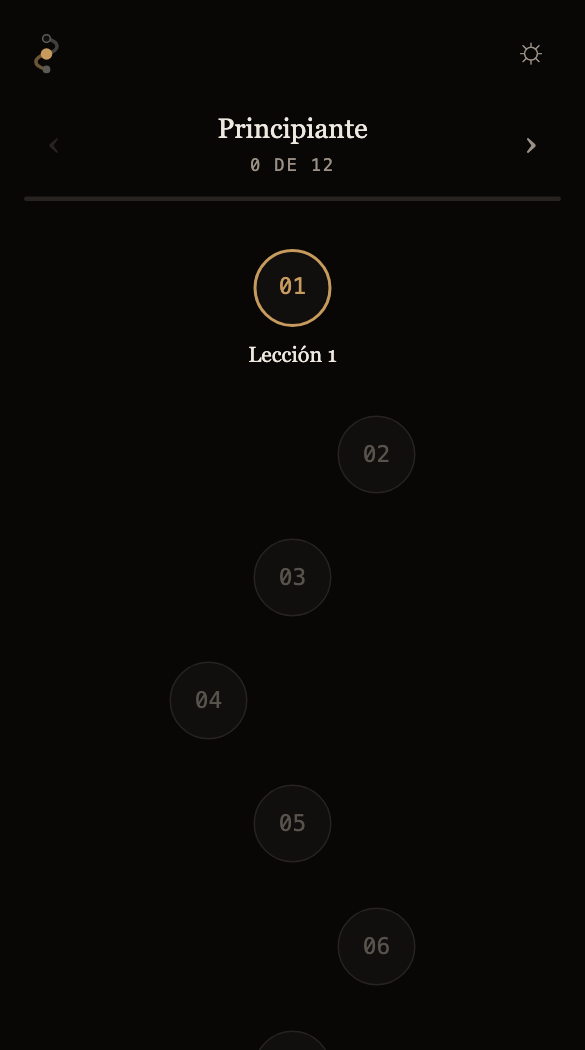
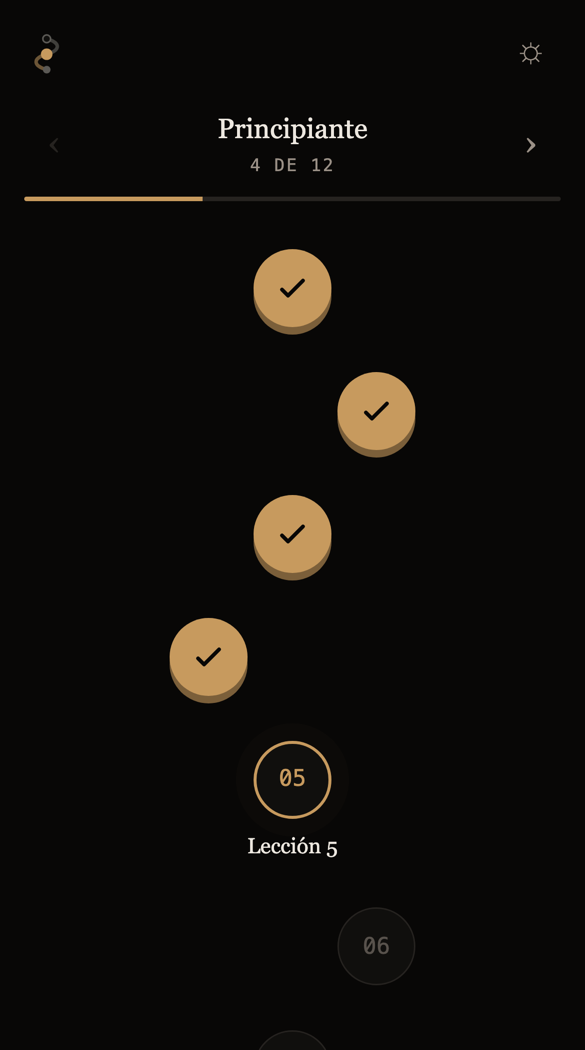
feat(ui): refine the "cómo funciona" rows — plain lesson text, numbered path, advanced trail
- Question row: a plain description of a lesson ("explica un tema, te hace
  preguntas, y seguís") instead of two points, so it reads simply.
- Path row: brings back the numbered 01/02/03 points beside the trail.
- Trail screenshot now shows a mid-section user (Principiante 4 de 12,
  four done, lesson 5 current) rather than a fresh lesson 1.

Claude-Session: https://claude.ai/code/session_01G2mzFr1aeQaffNHwcjnJ1Z

diff --git a/src/ui/Landing.tsx b/src/ui/Landing.tsx
@@ -86,7 +86,7 @@ export function Landing({
           <span className="landing-eyebrow">{copy.landingHowEyebrow}</span>
           <span className="landing-eyebrow">{copy.landingHowEyebrowRight}</span>
         </div>
-        {/* A question on the left, its explanation on the right. */}
+        {/* A question on the left, a plain description of a lesson on the right. */}
         <div className="landing-feature">
           <figure className="landing-feature-shot">
             <img className="landing-shot-img shot-dark" src={cardDark} alt="" width="585" height="1050" />
@@ -94,16 +94,11 @@ export function Landing({
           </figure>
           <div className="landing-feature-text">
             <span className="landing-eyebrow">{copy.landingShotQuestion}</span>
-            {[copy.landingPoints[0], copy.landingPoints[2]].map((point) => (
-              <div key={point.title} className="landing-point">
-                <h2 className="landing-point-title">{point.title}</h2>
-                <p className="landing-point-body">{point.body}</p>
-              </div>
-            ))}
+            <p className="landing-point-body">{copy.landingQuestionBody}</p>
           </div>
         </div>
 
-        {/* The path on the right, its explanation on the left. */}
+        {/* The path on the right, the numbered points on the left. */}
         <div className="landing-feature landing-feature-reverse">
           <figure className="landing-feature-shot">
             <img className="landing-shot-img shot-dark" src={trailDark} alt="" width="585" height="1050" />
@@ -111,10 +106,15 @@ export function Landing({
           </figure>
           <div className="landing-feature-text">
             <span className="landing-eyebrow">{copy.landingShotTrail}</span>
-            <div className="landing-point">
-              <h2 className="landing-point-title">{copy.landingPoints[1].title}</h2>
-              <p className="landing-point-body">{copy.landingPoints[1].body}</p>
-            </div>
+            <ol className="landing-points">
+              {copy.landingPoints.map((point, i) => (
+                <li key={point.title} className="landing-point">
+                  <span className="landing-point-num">{String(i + 1).padStart(2, '0')}</span>
+                  <h2 className="landing-point-title">{point.title}</h2>
+                  <p className="landing-point-body">{point.body}</p>
+                </li>
+              ))}
+            </ol>
           </div>
         </div>
       </section>

diff --git a/src/ui/copy.ts b/src/ui/copy.ts
@@ -42,9 +42,12 @@ export const copy = {
       body: 'Repaso espaciado: lo que viste reaparece justo antes de que se te olvide, al empezar la lección nueva.',
     },
   ],
-  // Captions for the two app screenshots in the "cómo funciona" section.
+  // "Cómo funciona": the question row gets a plain description of a lesson; the path row keeps
+  // the numbered points. Eyebrows label each row against its screenshot.
   landingShotQuestion: 'Una pregunta',
   landingShotTrail: 'El camino',
+  landingQuestionBody:
+    'Cada lección explica un tema y te hace preguntas sobre eso. Respondés, ves la respuesta, y seguís.',
   landingCreditEyebrow: 'Crédito del contenido',
   landingCreditPre: (author: string): string =>
     `Las preguntas y respuestas son de ${author}, del repositorio `,

diff --git a/src/ui/styles.css b/src/ui/styles.css
@@ -323,10 +323,26 @@ body::before {
   gap: clamp(1rem, 3vh, 1.8rem);
 }
 
+.landing-points {
+  list-style: none;
+  margin: 0;
+  padding: 0;
+  display: flex;
+  flex-direction: column;
+  gap: clamp(1.2rem, 3vh, 1.8rem);
+}
+
 .landing-point {
   display: flex;
   flex-direction: column;
   gap: 0.55rem;
+}
+
+.landing-point-num {
+  font-family: var(--mono);
+  font-size: 0.8rem;
+  letter-spacing: 0.1em;
+  color: var(--accent);
 }
 
 .landing-point-title {
